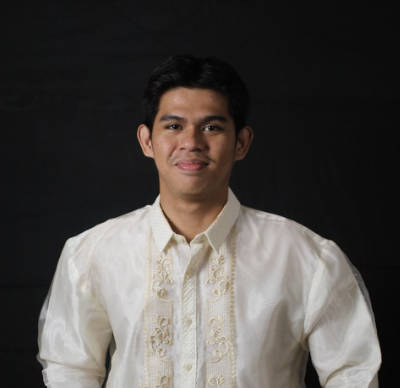
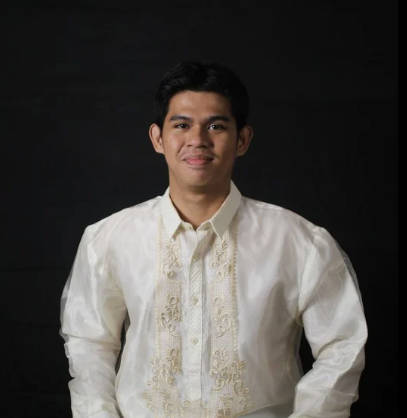
Final

Changed region(s): [[0.09, 0.2165, 0.96, 1.0]]

diff --git a/index.html b/index.html
@@ -159,16 +159,16 @@
         <!-- Blue border around the main content area -->
 
 
-        <div class="border-4 border-[#f2f2ee] flex flex-col mx-0 sm:mx-6 md:mx-12 lg:mx-20 md:flex-row lg:gap-20">
+        <div class="border-4 border-[#f2f2ee] flex flex-col mx-0 sm:mx-6 md:mx-12 lg:mx-20 md:flex-row lg:gap-10">
           <!-- Image Section - Appears first on smaller screens -->
           <div class="order-1 md:order-2 border-4 border-[#f2f2ee] p-4">
             <!-- Yellow border around the image section -->
-            <img src="./assets/home_photo.jpg" alt="Person Writing"
-              class="border-4 border-black w-full lg:w-3/4 xl:w-full mx-auto" />
+            <img src="./assets/home_photo1.jpg" alt="Person Writing"
+              class="border-4 border-black w-full lg:w-3/4 xl:w-full mx-auto"">
           </div>
 
           <!-- Text Section - Appears after the image on smaller screens -->
-          <div class="text-center md:text-left order-2 md:order-1 border-4 border-[#f2f2ee] p-4">
+          <div class=" text-center md:text-left order-2 md:order-1 border-4 border-[#f2f2ee] p-4">
             <!-- Purple border around the text section -->
             <h1
               class="text-2xl sm:text-3xl text-left sm:text-center md:text-left text-2xl md:text-4xl lg:mt-10 lg:text-5xl font-bold">
@@ -176,7 +176,7 @@
             </h1>
             <div class="flex justify-start sm:justify-center md:justify-start mt-4 sm:mt-6 md:mt-8 lg:mt-10 xl:mt-12">
               <a href="#about "
-                class="text-base sm:text-lg md:text-sm lg:text-lg xl:text-2xl bg-transparent border-2 border-gray-900 py-2 sm:py-3 md:py-2 lg:py-3 xl:py-3 px-4 sm:px-6 md:px-5 lg:px-10 xl:px-12 rounded-full text-gray-900 hover:bg-gray-300 transition-all duration-300">
+                class="text-base sm:text-lg md:text-sm lg:text-lg xl:text-xl bg-transparent border-2 border-gray-900 py-2 sm:py-3 md:py-2 lg:py-3 xl:py-3 px-4 sm:px-6 md:px-5 lg:px-10 xl:px-12 rounded-full text-gray-900 hover:bg-gray-300 transition-all duration-300">
                 GET TO KNOW ME
               </a>
             </div>
@@ -191,12 +191,13 @@
         class="flex-grow p-6 flex flex-col items-center md:flex-row md:justify-start md:space-x-20 border-8 border-[#fafafa] -mx-5 mm-10 bg-[#fafafa] rounded-md xl:ml-3 xl:mb-20">
 
         <!-- About page 1 Image Section - Appears first on smaller screens -->
-        <div class=" flex flex-col mx-0 sm:mx-6 md:mx-12 lg:mx-20 lg:flex-row">
+        <div class=" flex flex-col mx-0 sm:mx-6 md:mx-12 lg:mx-20 lg:flex-row lg:gap-20">
 
           <div class="p-5">
 
             <!-- Yellow border around the image section -->
-            <img src="./assets/about_photo.jpg" alt="Person Writing" class="border-4 border-black mx-auto lg:mt-5" />
+            <img src="./assets/home_photo.jpg" alt="Person Writing"
+              class="border-4 border-black rounded-md mx-auto lg:mt-5" />
             <h1
               class="text-lg lg:text-3xl xl:text-4xl -mt-6 font-bold text-right  mb-10 sm:text-2xl sm:text-center lg:text-right">
               <br>David Ty
@@ -356,6 +357,7 @@
 
 
       </div>
+      <div class="w-5/6 mx-auto h-1 lg:h-0 bg-[#545e51] mt-10 "></div>
 
       <!-- Portfolio page 1 -->
       <div class="flex flex-grow xl:flex-row flex-col items-left border-4 border-[#f2f2ee] -mx-5 mt-10">
